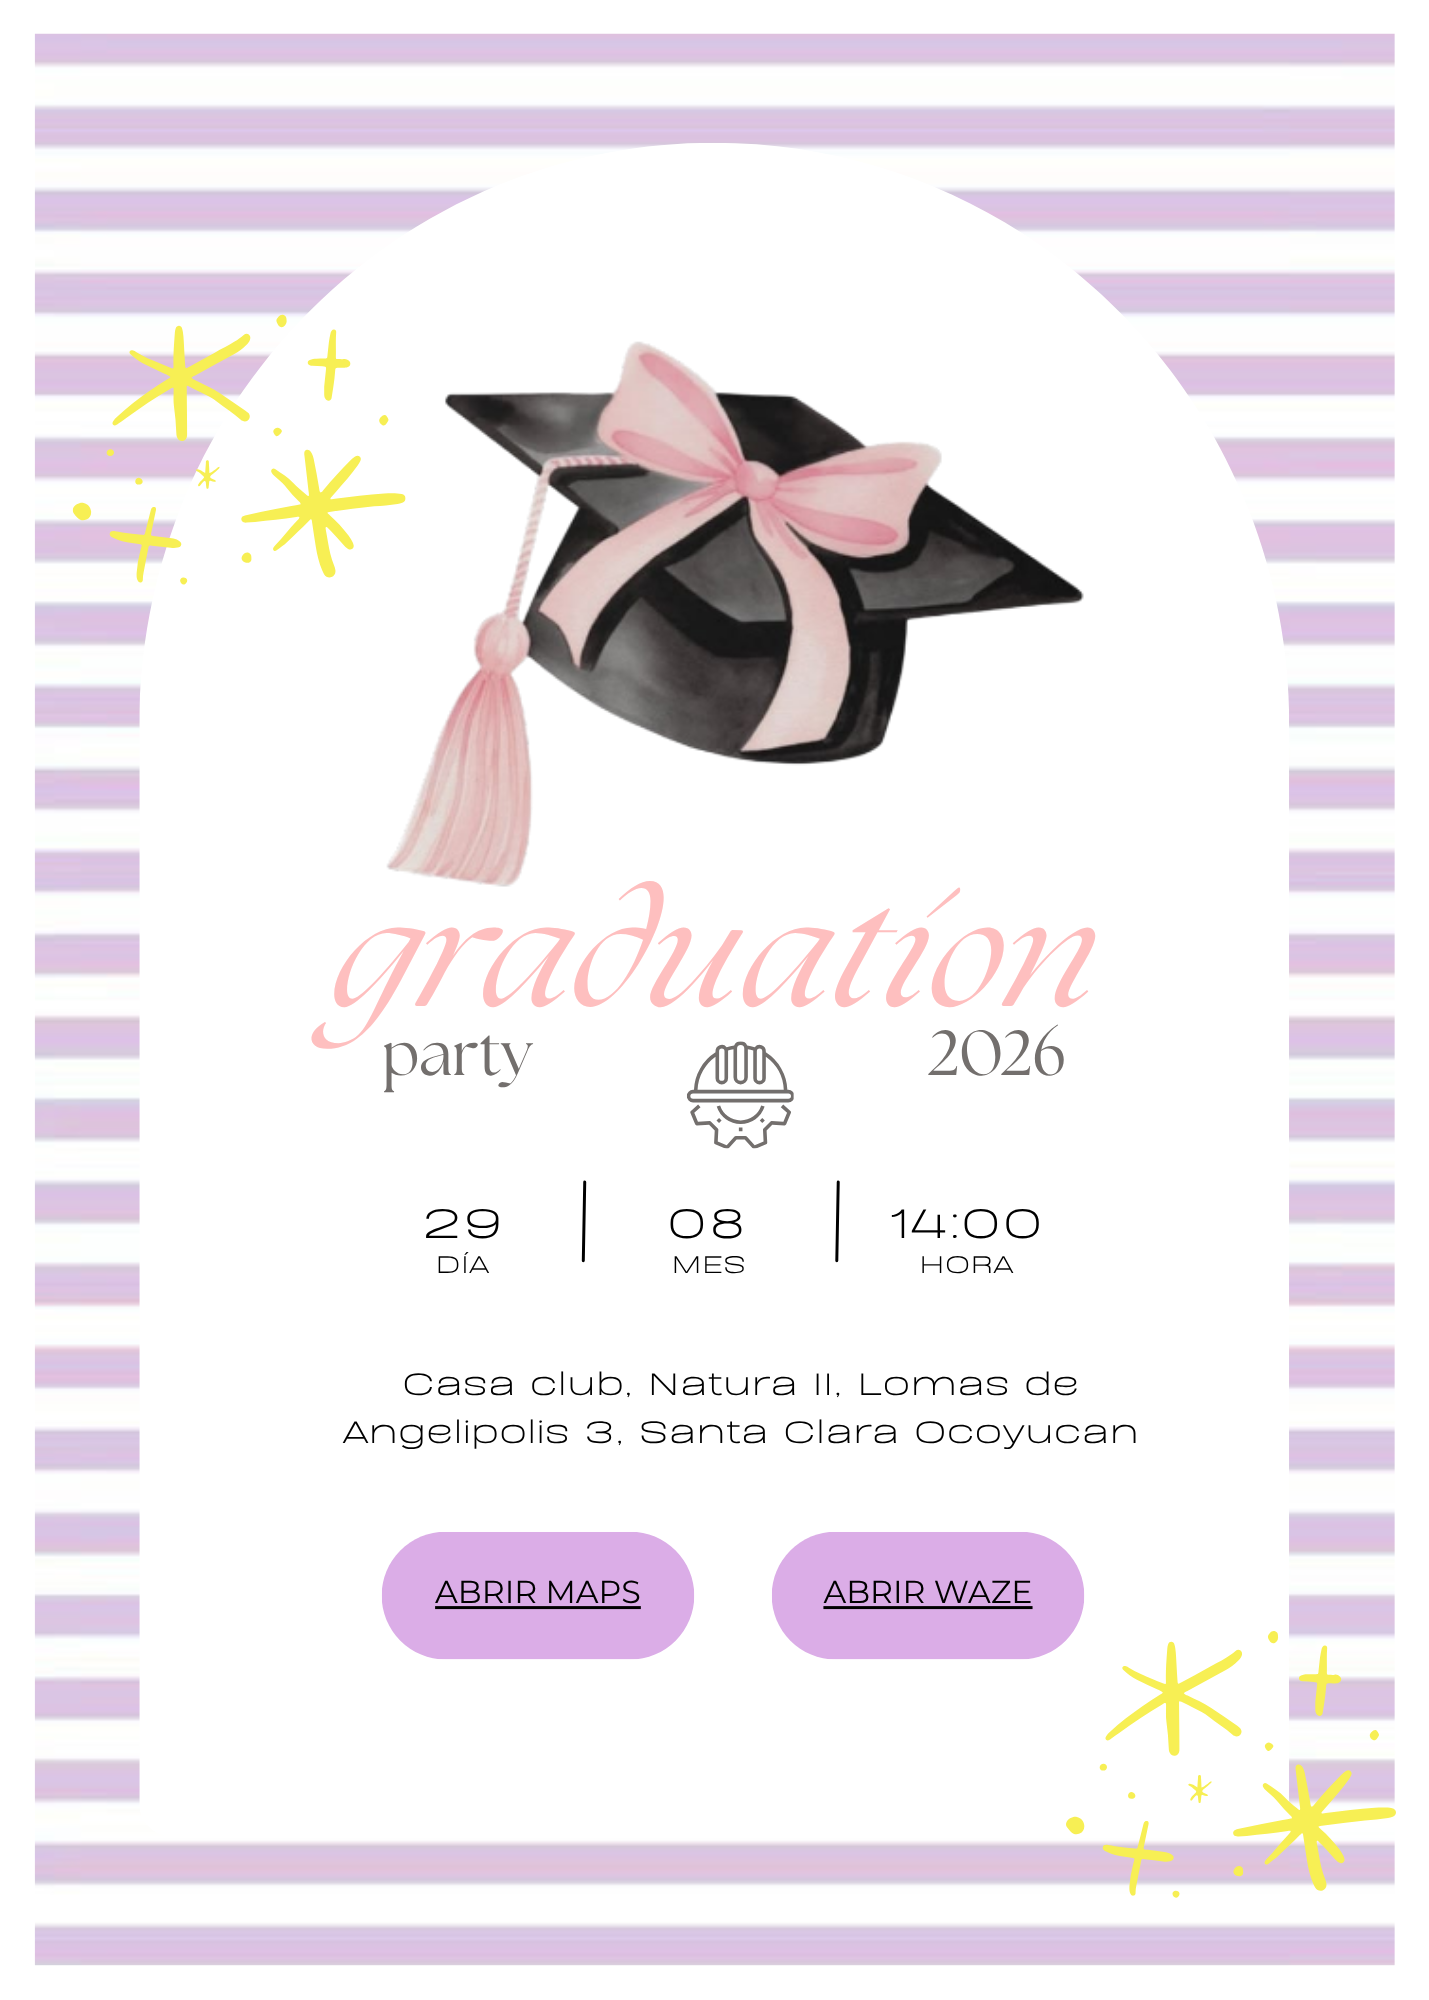
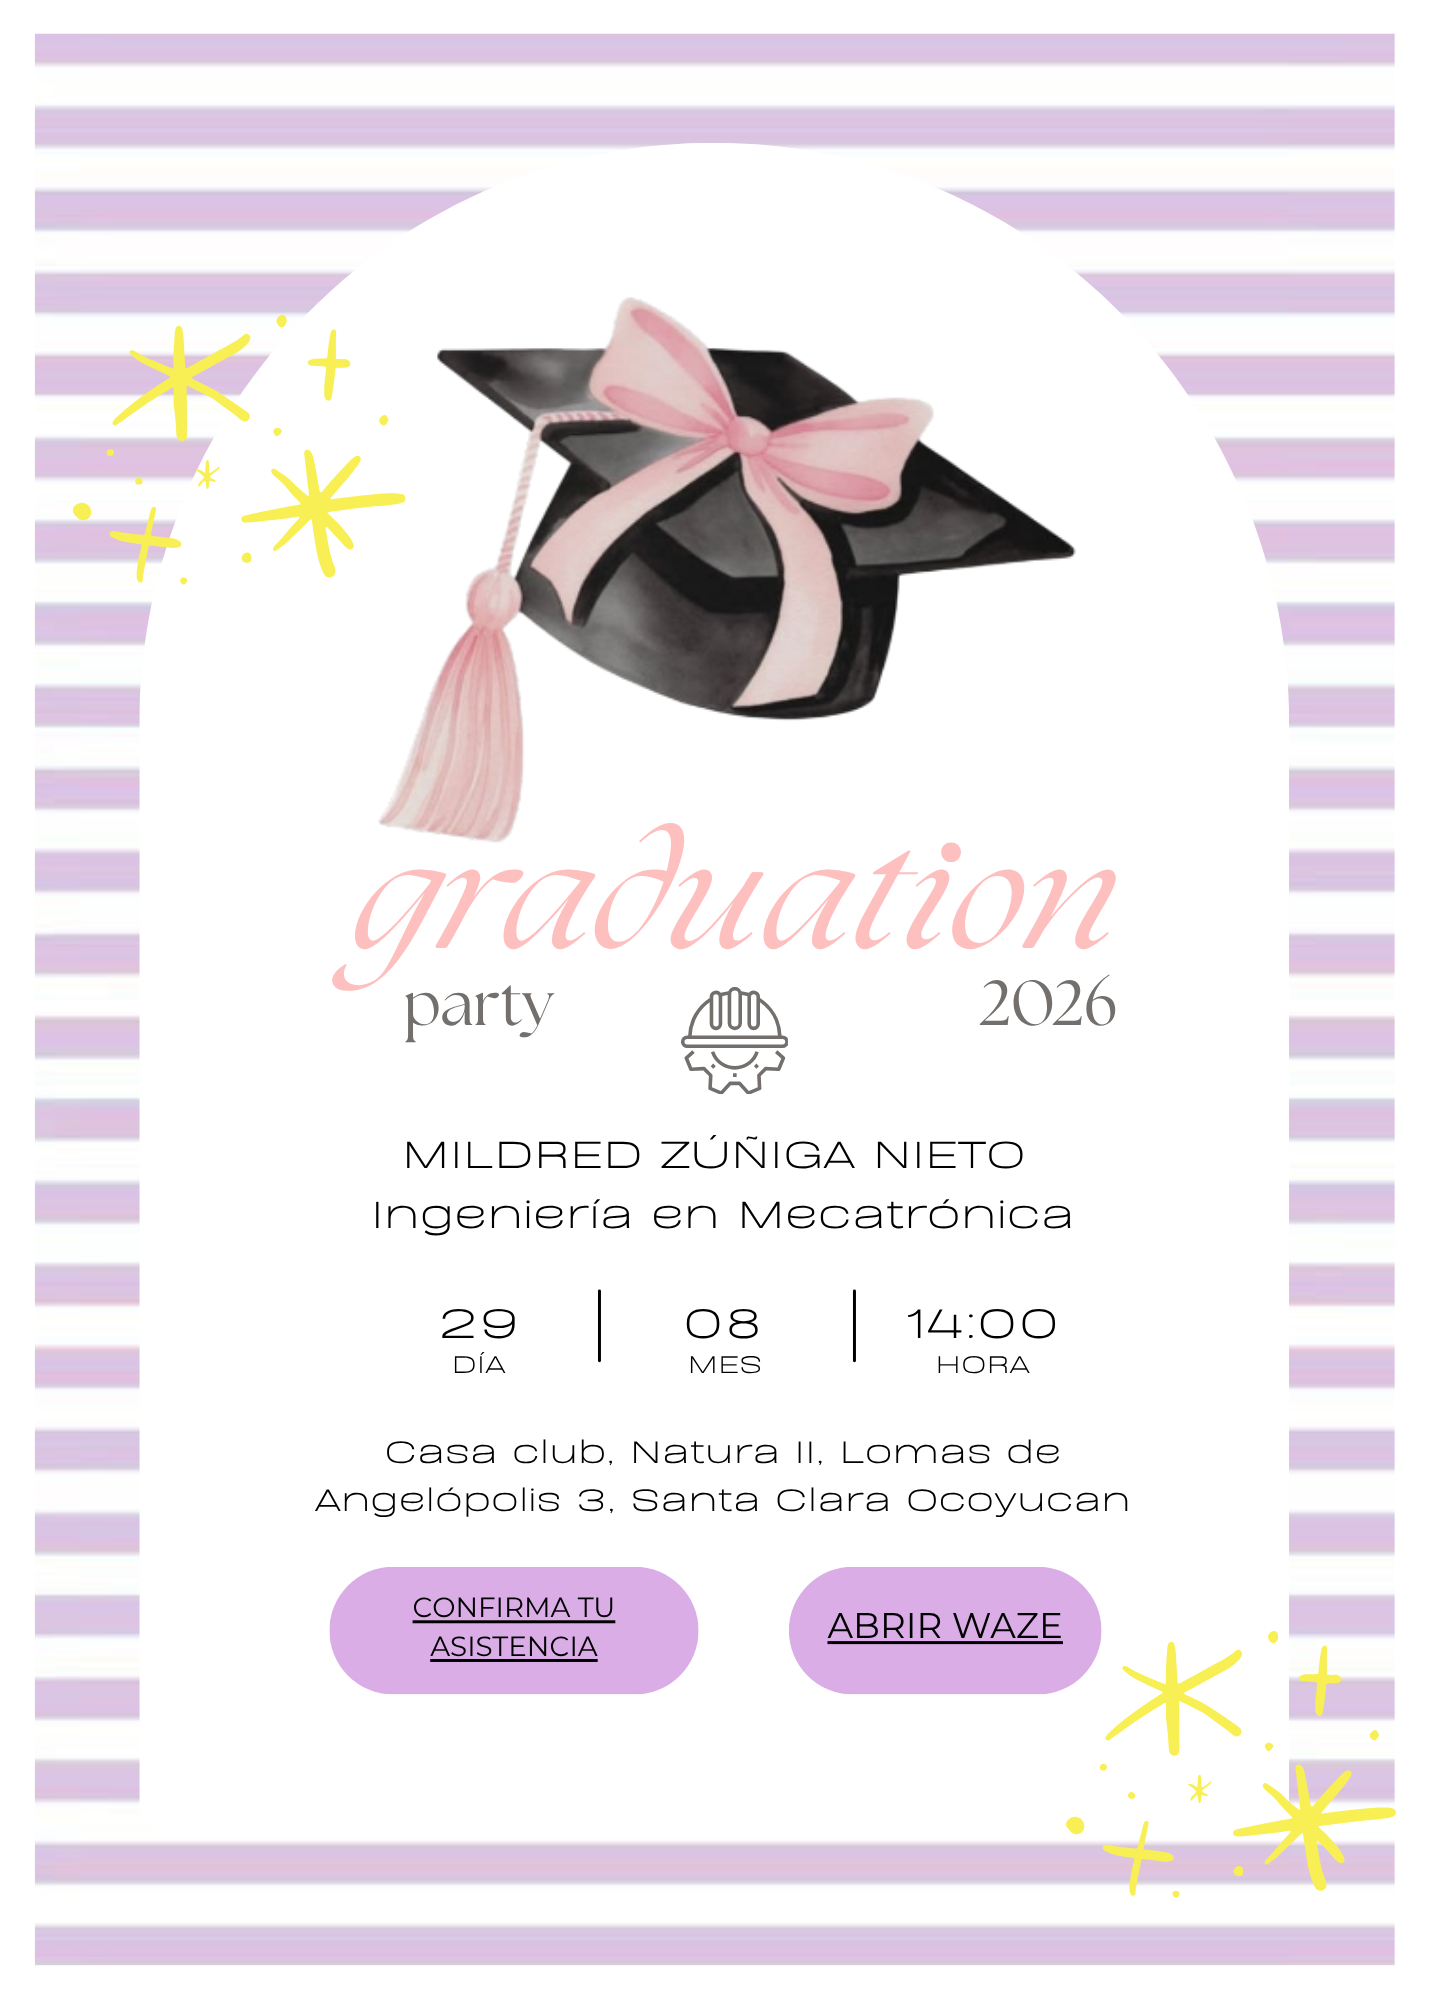
Add files via upload

Changed region(s): [[0.2155, 0.124, 0.8006, 0.62], [0.2155, 0.651, 0.7698, 0.868]]

diff --git a/styles.css b/styles.css
@@ -11,6 +11,7 @@ body{
     align-items:center;
     min-height:100vh;
     padding:20px;
+    font-family:Arial, Helvetica, sans-serif;
 }
 
 .invitacion{
@@ -26,29 +27,35 @@ body{
     box-shadow:0 10px 30px rgba(0,0,0,.15);
 }
 
-/* BOTÓN MAPS */
+/* ========================= */
+/* BOTÓN WHATSAPP */
+/* ========================= */
 
-.maps{
+.whatsapp{
     position:absolute;
-    top:79.8%;
-    left:26%;
-    width:18%;
-    height:3%;
+    top:79%;
+    left:24%;
+    width:24%;
+    height:6%;
     cursor:pointer;
 }
 
+/* ========================= */
 /* BOTÓN WAZE */
+/* ========================= */
 
 .waze{
     position:absolute;
-    top:79.8%;
-    left:56%;
-    width:18%;
-    height:3%;
+    top:79%;
+    left:53%;
+    width:24%;
+    height:6%;
     cursor:pointer;
 }
 
+/* ========================= */
 /* RESPONSIVE */
+/* ========================= */
 
 @media (max-width:600px){
 

diff --git a/index.html b/index.html
@@ -18,13 +18,19 @@
 
         <img src="imagenes/invitacion.png" alt="Invitación">
 
-        <a class="maps"
-            href="https://maps.app.goo.gl/b4ASXMaeUKKBPjpR8?g_st=ic"
-            target="_blank"></a>
+        <!-- Botón WhatsApp -->
+        <a class="whatsapp"
+            href="https://wa.me/522214190648?text=Hola,%20%C2%A1confirmo%20mi%20asistencia!"
+            target="_blank"
+            aria-label="Confirmar asistencia por WhatsApp">
+        </a>
 
+        <!-- Botón Waze -->
         <a class="waze"
             href="https://waze.com/ul/h9g65g751z"
-            target="_blank"></a>
+            target="_blank"
+            aria-label="Abrir ubicación en Waze">
+        </a>
 
     </div>
 
